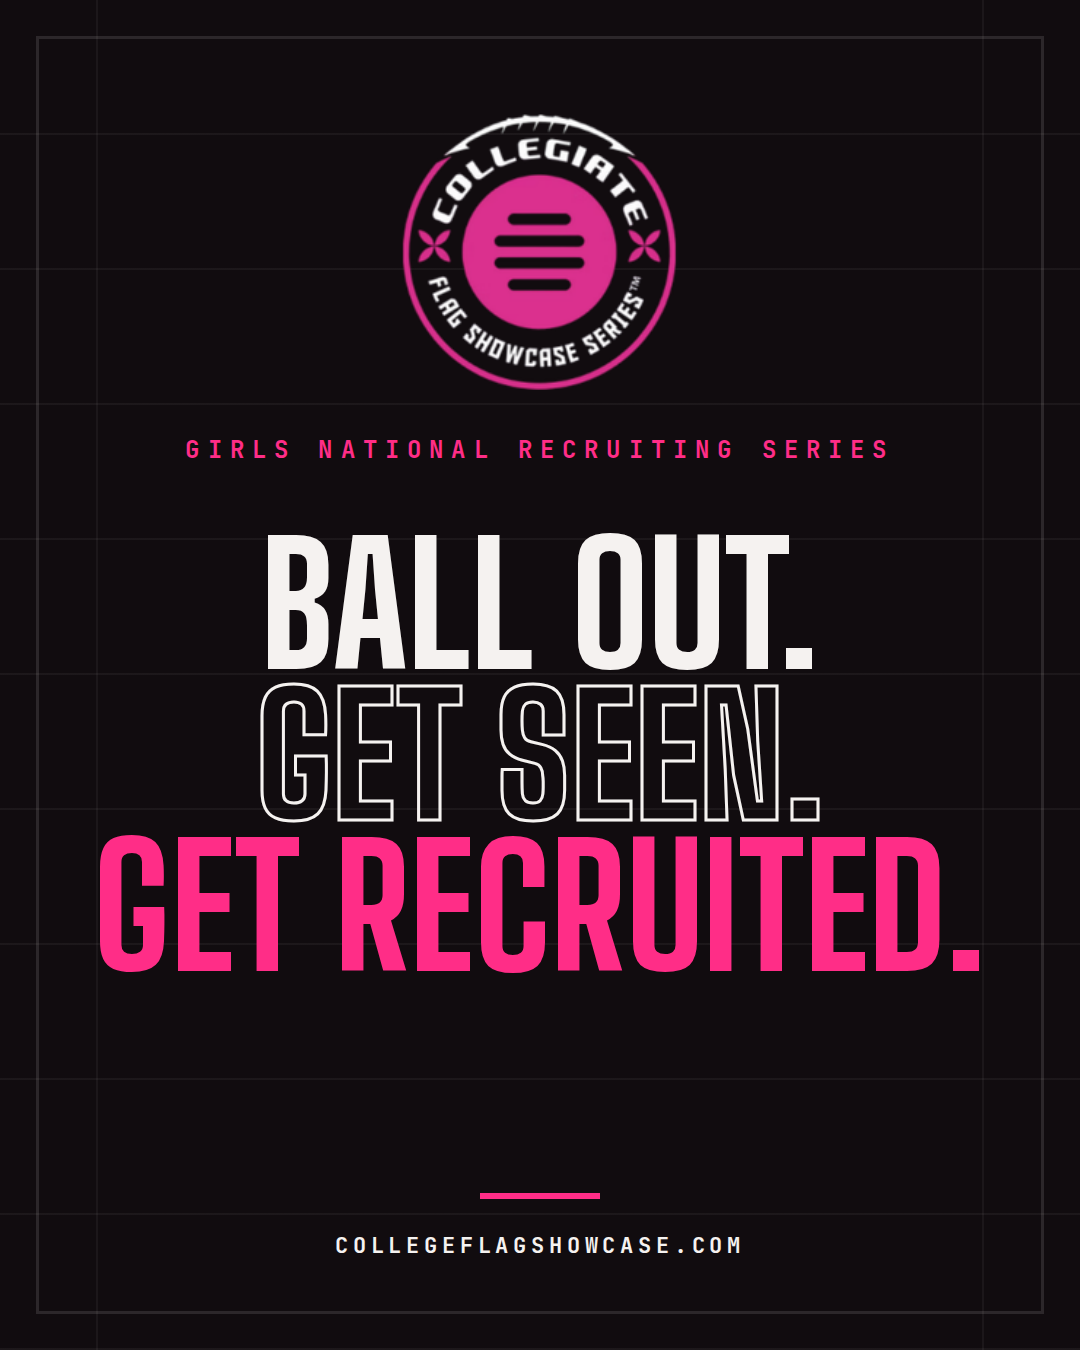
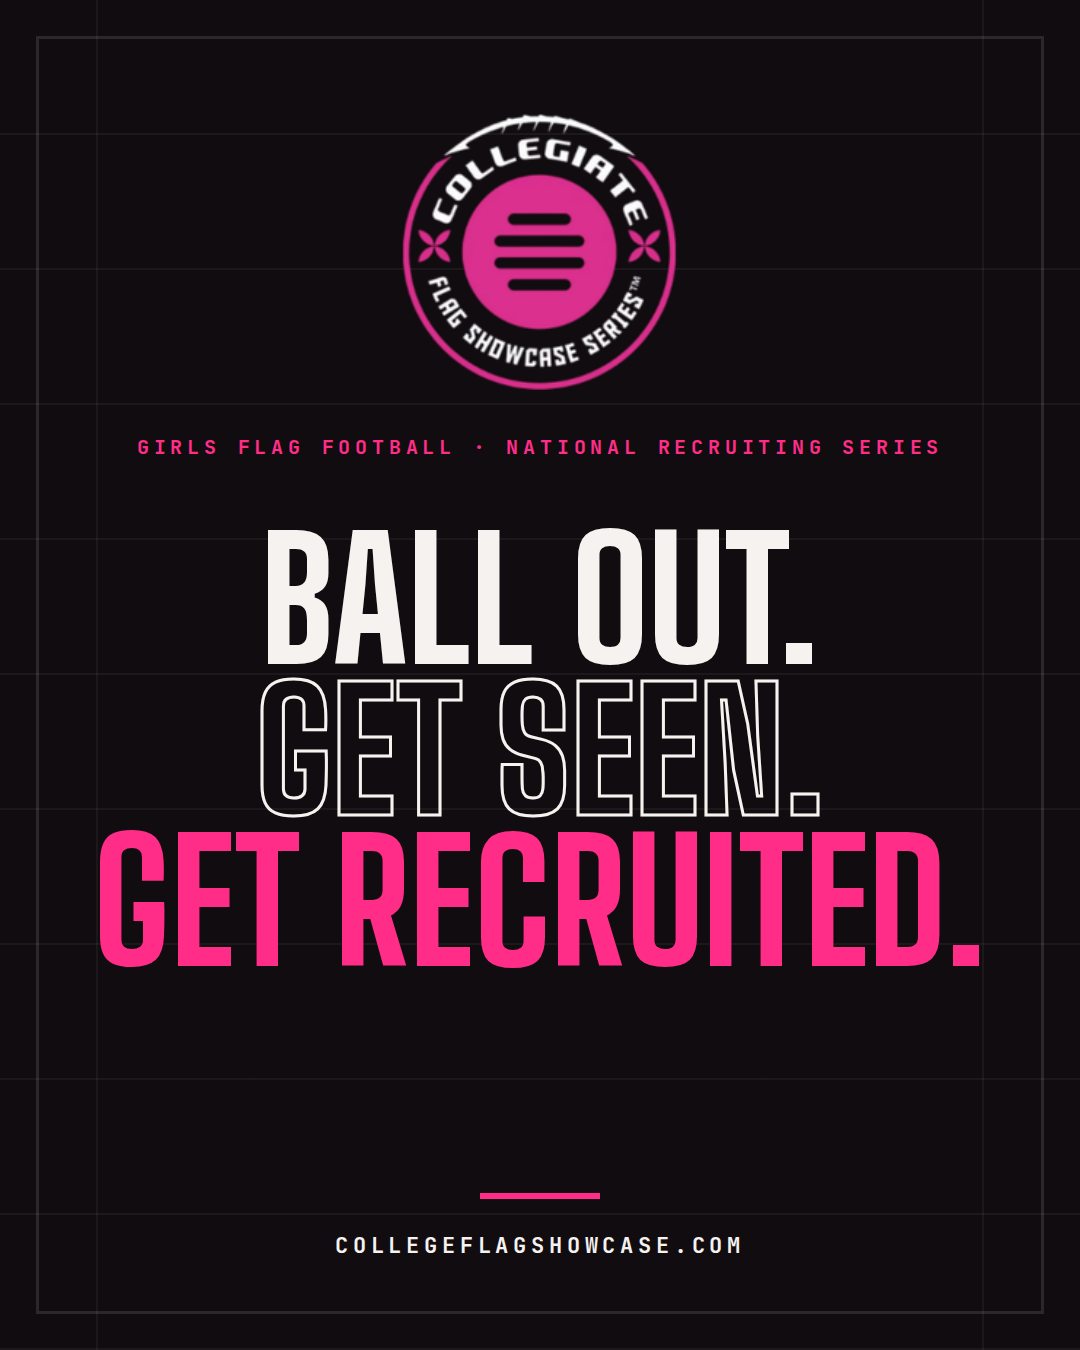
IG teaser: kicker names the sport — Girls Flag Football
Claude-Session: https://claude.ai/code/session_019V32boShoBmRrwWenCPJFc

diff --git a/collateral/ig-teaser-ball-out-4x5.html b/collateral/ig-teaser-ball-out-4x5.html
@@ -27,7 +27,7 @@
   .inner{position:absolute;inset:0;display:flex;flex-direction:column;align-items:center;text-align:center;padding:110px 90px 90px}
 
   .logo{width:280px;height:280px}
-  .kicker{margin-top:44px;font-family:var(--mono);font-size:24px;font-weight:700;letter-spacing:.34em;text-transform:uppercase;color:var(--red)}
+  .kicker{margin-top:44px;font-family:var(--mono);font-size:20px;font-weight:700;letter-spacing:.24em;text-transform:uppercase;color:var(--red);white-space:nowrap}
 
   .stack{margin-top:64px;font-family:var(--display);font-weight:800;text-transform:uppercase;line-height:.9;letter-spacing:.01em}
   .stack .l1{display:block;font-size:168px;color:var(--chalk)}
@@ -46,7 +46,7 @@
   <div class="frame"></div>
   <div class="inner">
     <img class="logo" src="../public/logo.png" alt="Collegiate Flag Showcase Series" />
-    <p class="kicker">Girls National Recruiting Series</p>
+    <p class="kicker">Girls Flag Football &middot; National Recruiting Series</p>
     <h1 class="stack">
       <span class="l1">Ball Out.</span>
       <span class="l2">Get Seen.</span>

diff --git a/collateral/ig-teaser-ball-out.html b/collateral/ig-teaser-ball-out.html
@@ -27,7 +27,7 @@
   .inner{position:absolute;inset:0;display:flex;flex-direction:column;align-items:center;text-align:center;padding:84px 90px 72px}
 
   .logo{width:230px;height:230px}
-  .kicker{margin-top:34px;font-family:var(--mono);font-size:24px;font-weight:700;letter-spacing:.34em;text-transform:uppercase;color:var(--red)}
+  .kicker{margin-top:34px;font-family:var(--mono);font-size:20px;font-weight:700;letter-spacing:.24em;text-transform:uppercase;color:var(--red);white-space:nowrap}
 
   .stack{margin-top:44px;font-family:var(--display);font-weight:800;text-transform:uppercase;line-height:.9;letter-spacing:.01em}
   .stack .l1{display:block;font-size:150px;color:var(--chalk)}
@@ -46,7 +46,7 @@
   <div class="frame"></div>
   <div class="inner">
     <img class="logo" src="../public/logo.png" alt="Collegiate Flag Showcase Series" />
-    <p class="kicker">Girls National Recruiting Series</p>
+    <p class="kicker">Girls Flag Football &middot; National Recruiting Series</p>
     <h1 class="stack">
       <span class="l1">Ball Out.</span>
       <span class="l2">Get Seen.</span>
